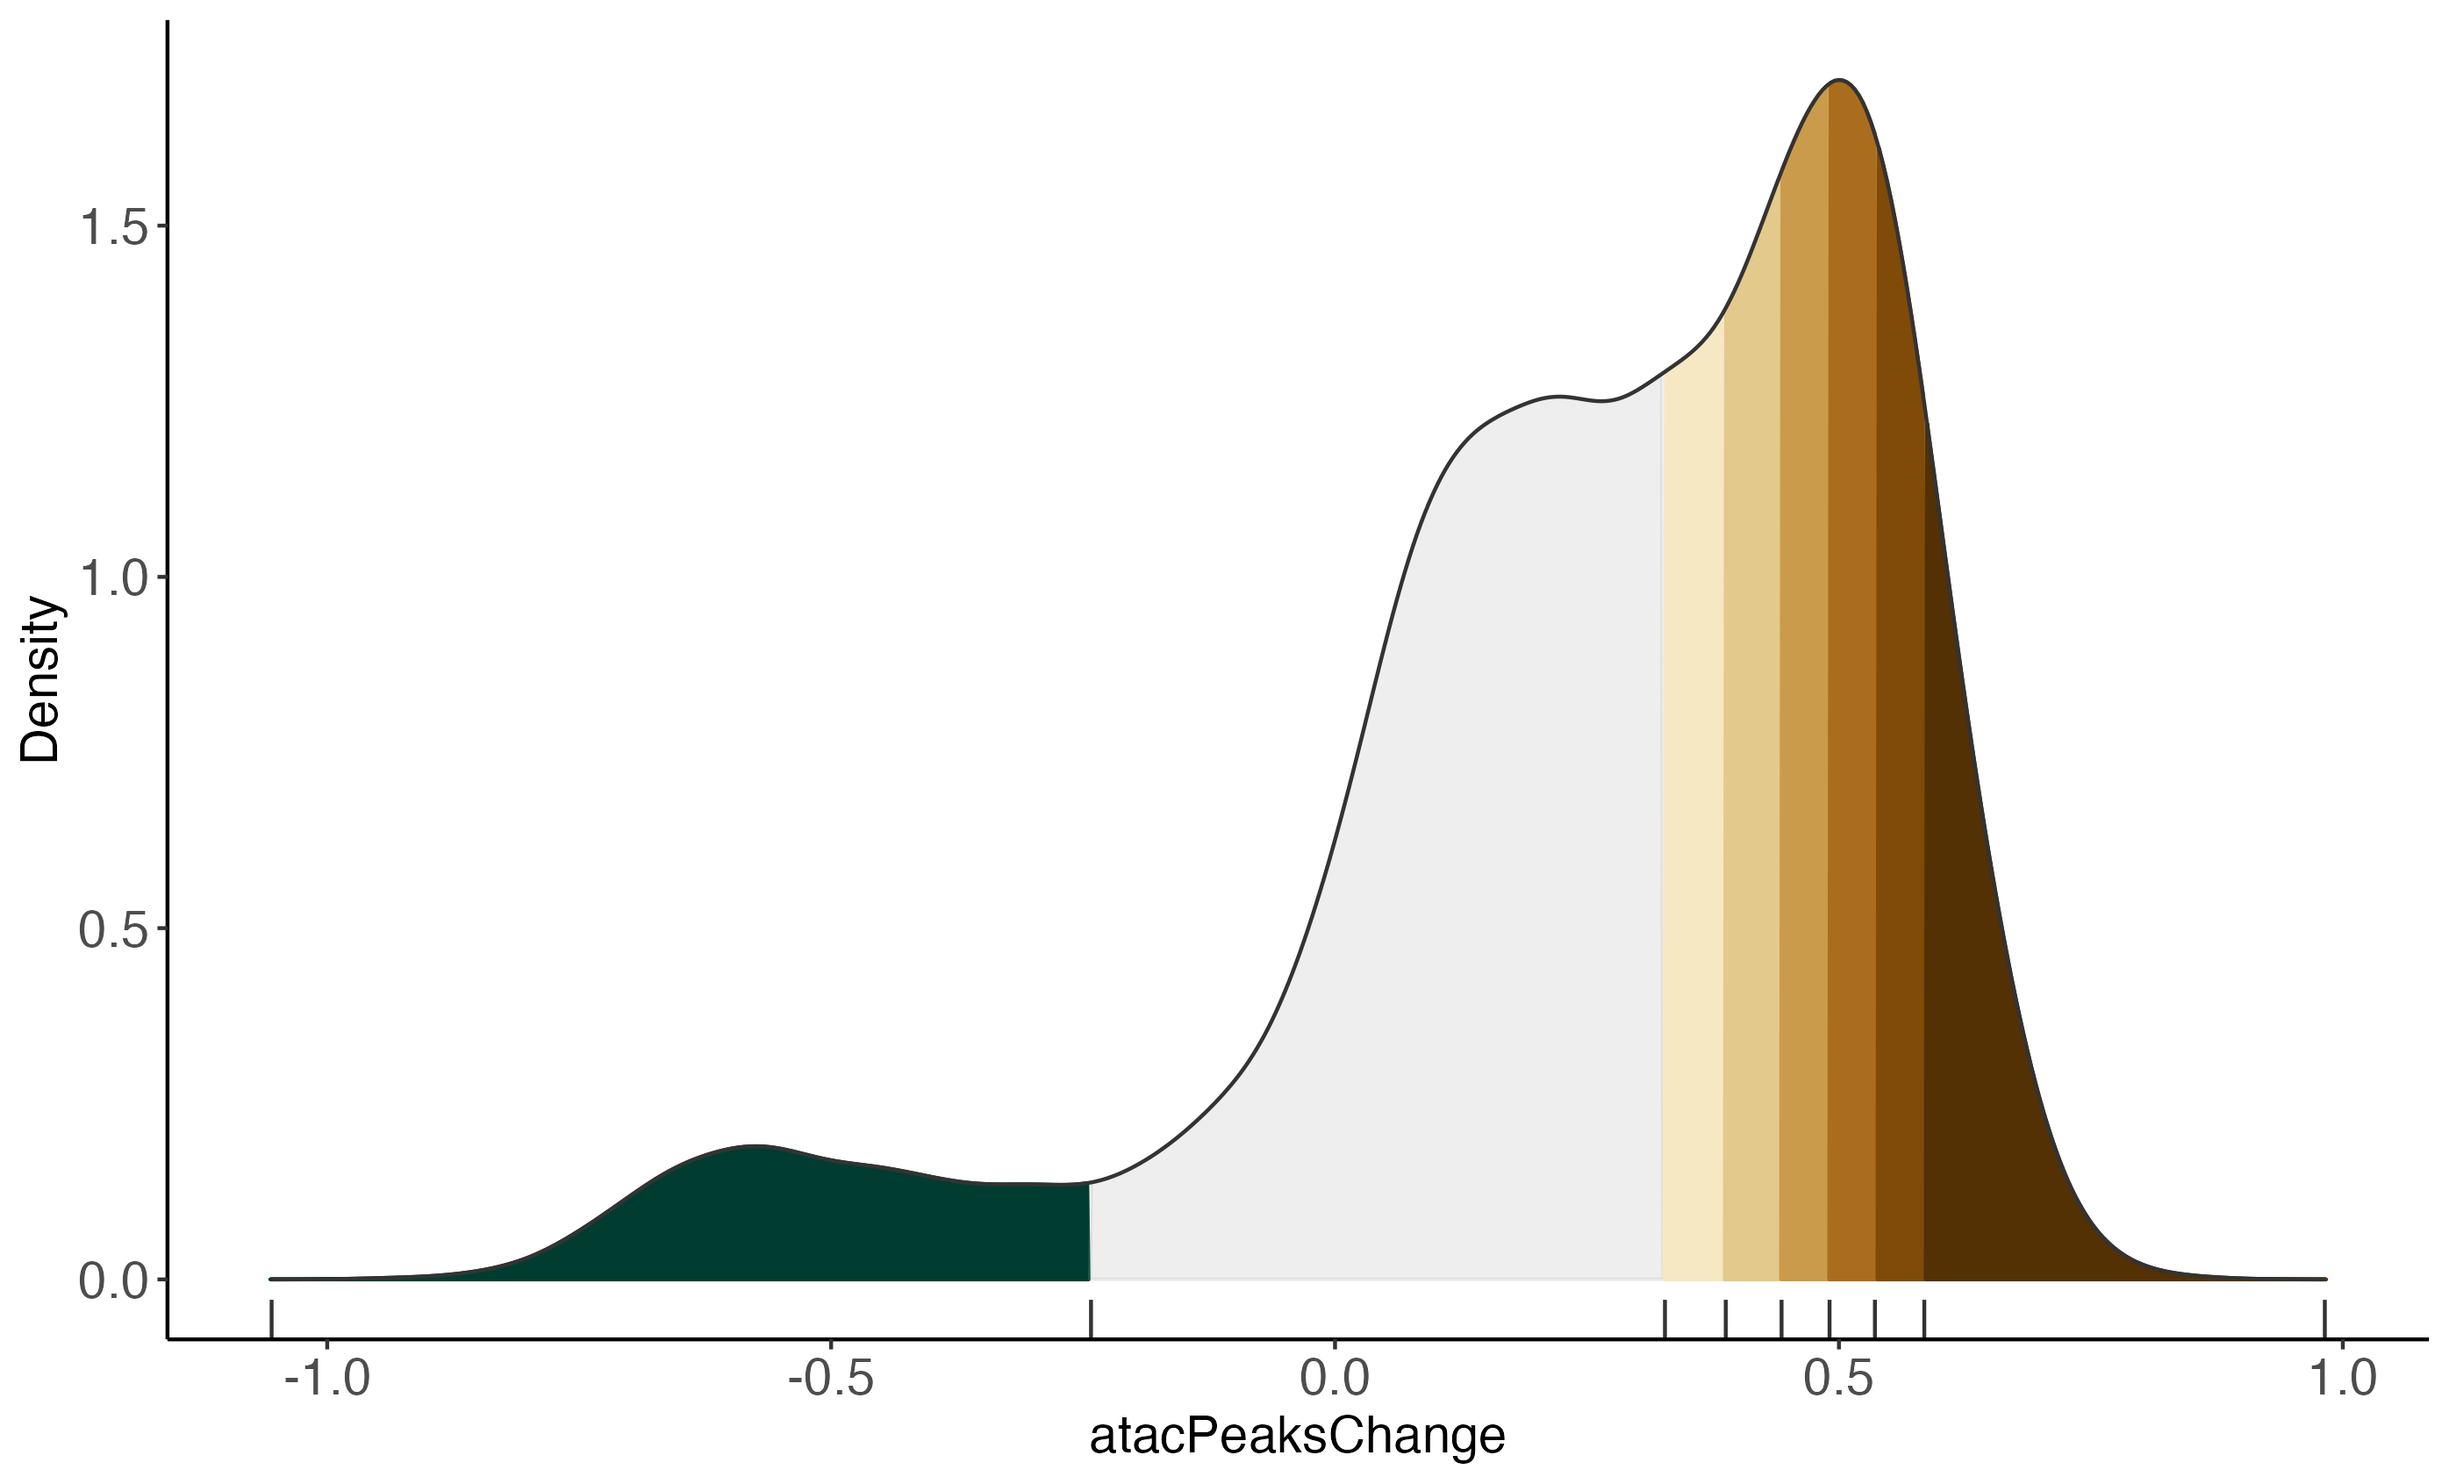
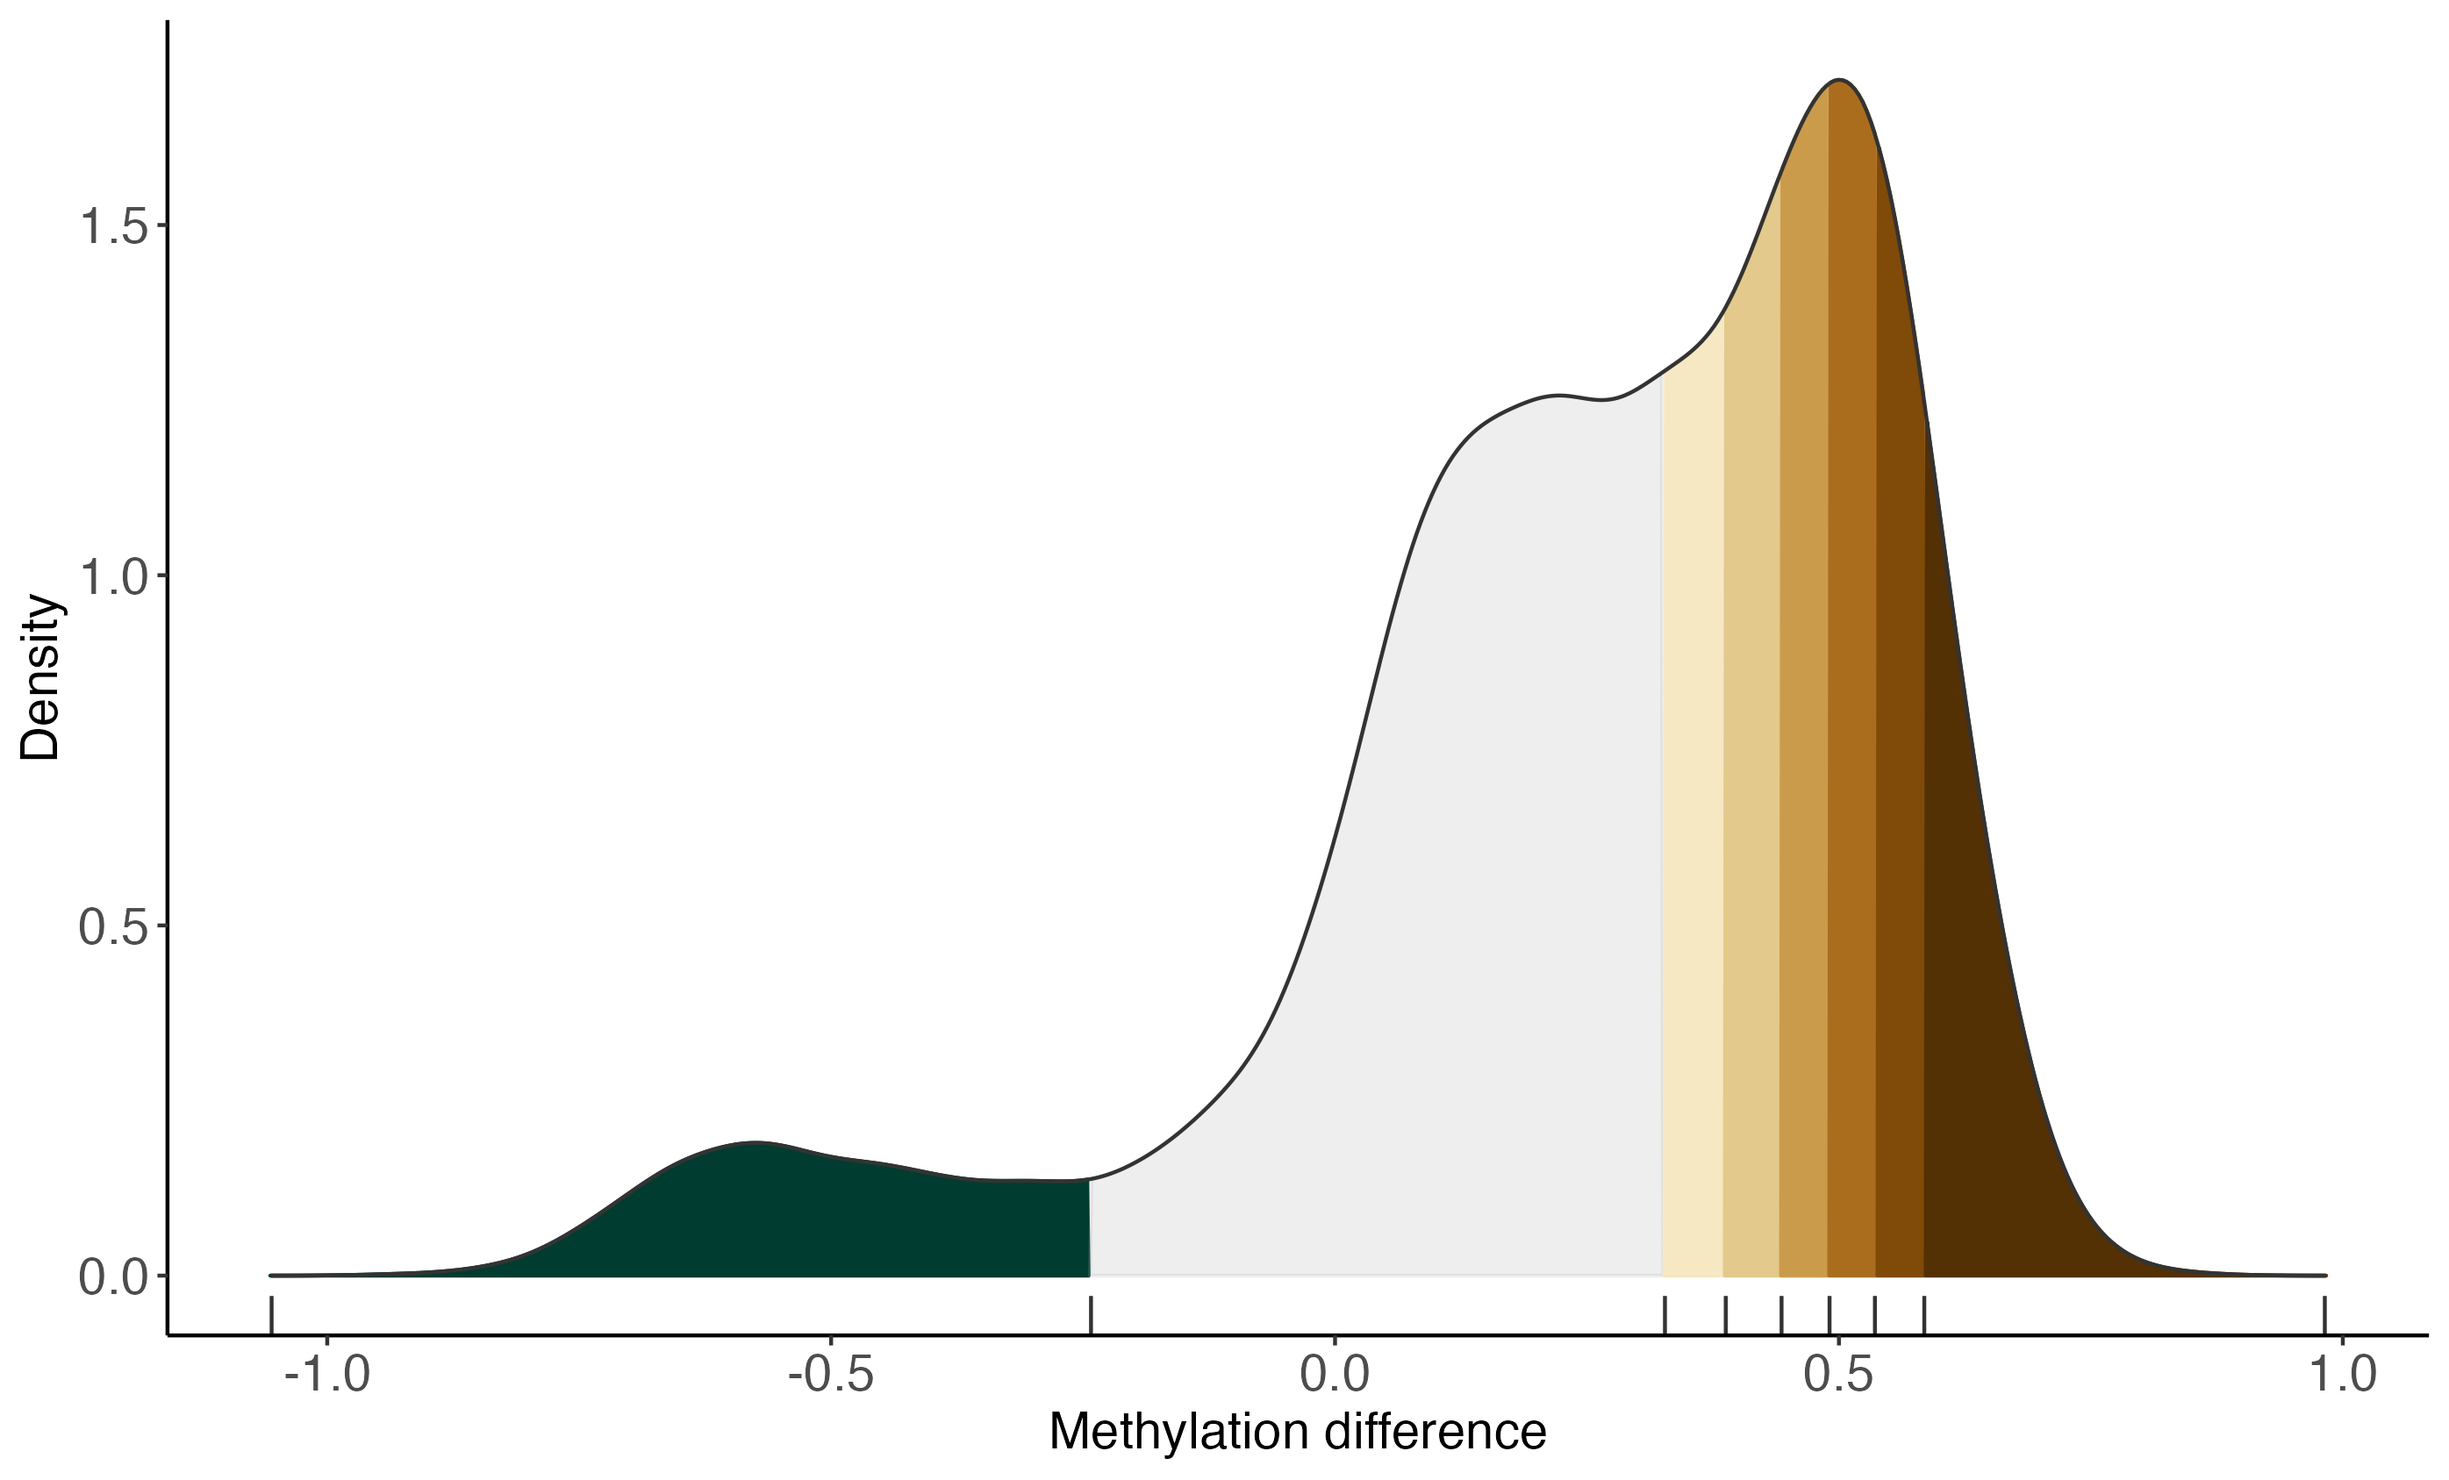
Update x-axis label in README density plot

Changed region(s): [[0.4364, 0.9555, 0.6234, 0.9864]]

diff --git a/README.md b/README.md
@@ -76,13 +76,13 @@ in columns, and multiple assays with significance and magnitude of the enrichmen
 The inputs for `calcBinnedMotifEnrR` can be easily obtained using other
 Bioconductor packages:  
 ```
-# get sequences ('atacPeaks' is a GRanges)
+# get sequences ('lmrs' is a GRanges object)
 library(Biostrings)
 library(BSgenome.Mmusculus.UCSC.mm10)
-seqs <- getSeq(BSgenome.Mmusculus.UCSC.mm10, atacPeaks)
+seqs <- getSeq(BSgenome.Mmusculus.UCSC.mm10, lmrs)
 
-# bin sequences ('atacPeaksChange' is a numerical vector)
-bins <- monaLisa::bin(x = atacPeaksChange, binmode = "equalN", nElement = 400)
+# bin sequences ('deltaMeth' is a numerical vector)
+bins <- monaLisa::bin(x = deltaMeth, binmode = "equalN", nElement = 800)
 
 # obtain known motifs from Jaspar
 library(JASPAR2020)
@@ -92,7 +92,8 @@ pwms <- getMatrixSet(JASPAR2020, list(matrixtype = "PWM", tax_group = "vertebrat
 
 The results can be conveniently visualized:
 ```
-plotBinDensity(atacPeaksChange, bins, legendPosition = "none")
+plotBinDensity(deltaMeth, bins, legendPosition = "none") + 
+    labs(x = "Methylation difference")
 ```
 <img src="man/figures/monaLisa_binning_small_ggplot.png" align="center" alt="binning" width="412px"/>
 
